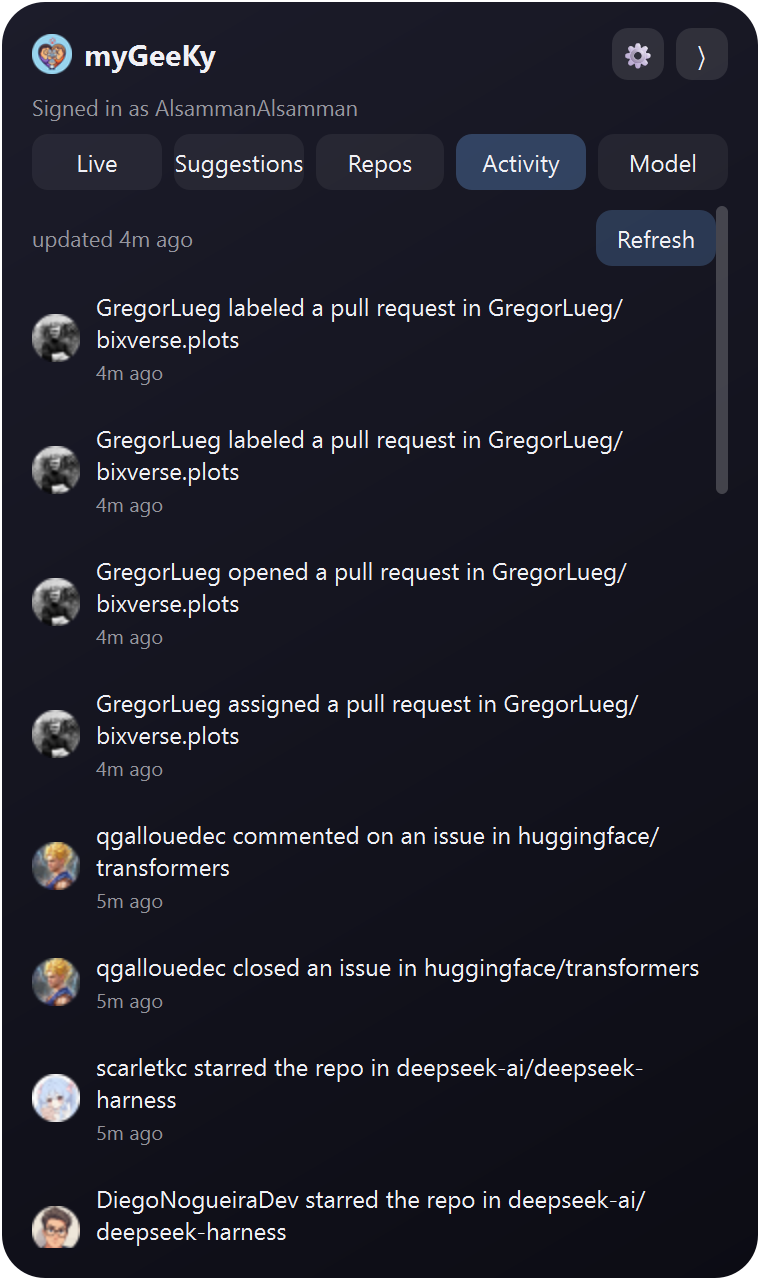
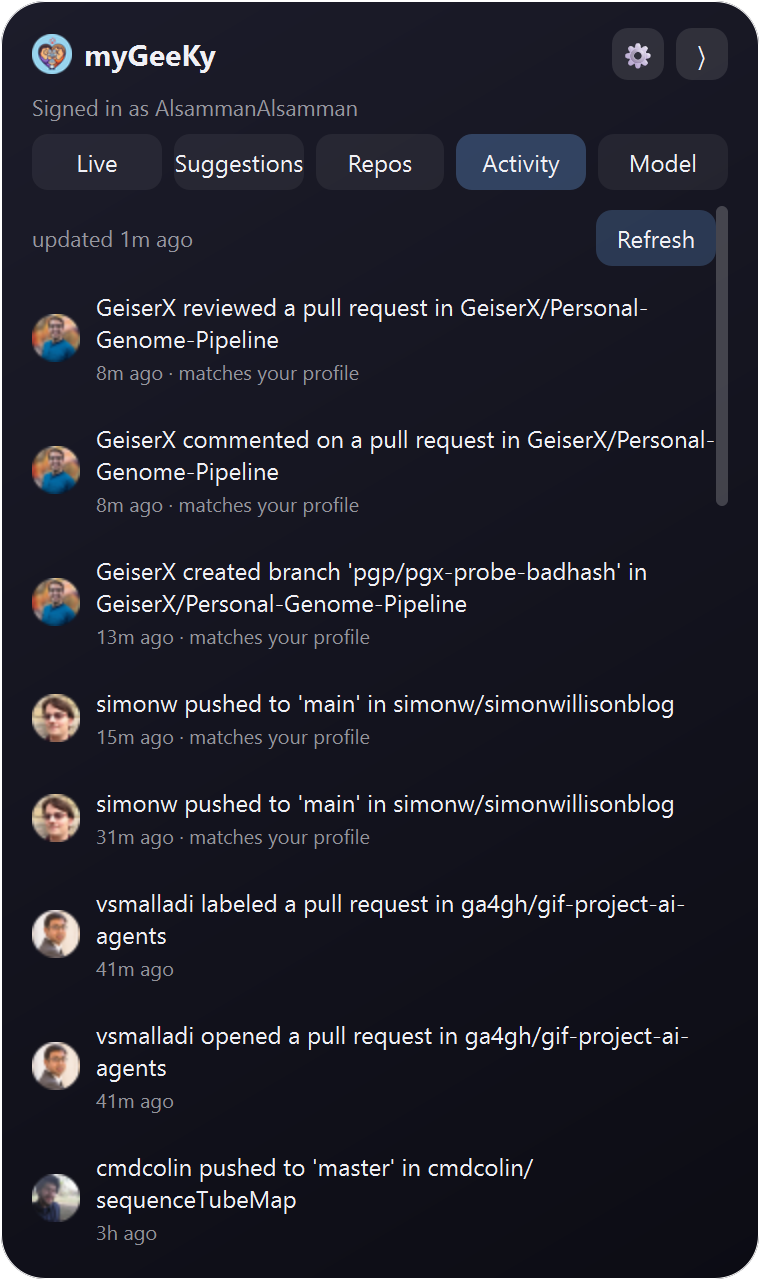
README: new Model and Activity screenshots
Opaque, 2x renders of the redesigned Model tab and the profile-matched
Activity feed, with updated captions and Model tab description.

diff --git a/README.md b/README.md
@@ -114,8 +114,8 @@ other answer can be skipped and changed later. Details in
 <td align="center"><img src="https://raw.githubusercontent.com/AlsammanAlsamman/myGeeKy/main/docs/screenshots/repos.png" width="240" alt="Repos tab"><br><sub><b>Repos</b> — projects in your field with starter issues</sub></td>
 </tr>
 <tr>
-<td align="center"><img src="https://raw.githubusercontent.com/AlsammanAlsamman/myGeeKy/main/docs/screenshots/activity.png" width="240" alt="Activity tab"><br><sub><b>Activity</b> — what people you follow are doing</sub></td>
-<td align="center"><img src="https://raw.githubusercontent.com/AlsammanAlsamman/myGeeKy/main/docs/screenshots/model.png" width="240" alt="Model tab"><br><sub><b>Model</b> — how well it predicts follow-backs, over time</sub></td>
+<td align="center"><img src="https://raw.githubusercontent.com/AlsammanAlsamman/myGeeKy/main/docs/screenshots/activity.png" width="240" alt="Activity tab"><br><sub><b>Activity</b> — people you follow, plus your best profile matches</sub></td>
+<td align="center"><img src="https://raw.githubusercontent.com/AlsammanAlsamman/myGeeKy/main/docs/screenshots/model.png" width="240" alt="Model tab"><br><sub><b>Model</b> — how good it is, what it learned, and the trend</sub></td>
 <td align="center" valign="middle"><img src="https://raw.githubusercontent.com/AlsammanAlsamman/myGeeKy/main/src/mygeeky/gui/assets/icon_128.png" width="58" alt="Folded icon"><br><sub><b>Folded</b> — just the icon on the screen edge, half-transparent until you hover it</sub></td>
 </tr>
 </table>
@@ -359,9 +359,11 @@ folded tab to expand it; click the arrow to fold it back to a slim strip.
   repos of orgs you follow are filtered out. Refreshes automatically, but no
   more often than `gui_activity_refresh_minutes` (default 5) — about one API
   call per matched person, not a full search.
-- **Model tab** — a chart of your learned model's cross-validated AUC and
-  training-set size over time, so you can watch it actually improve as you
-  run `mygeeky bootstrap`/`learn`.
+- **Model tab** — an animated ring with your model's cross-validated AUC and
+  a plain-language grade, tiles for examples / follow-backs / follow-back
+  rate / retrains, bars showing what the trained model rewards and
+  penalizes, and a trend chart (hover a point for details) so you can watch
+  it actually improve as you run `mygeeky bootstrap`/`learn`.
 
 **⚙ Settings** — click the small gear icon in the header to open a compact
 panel with:
